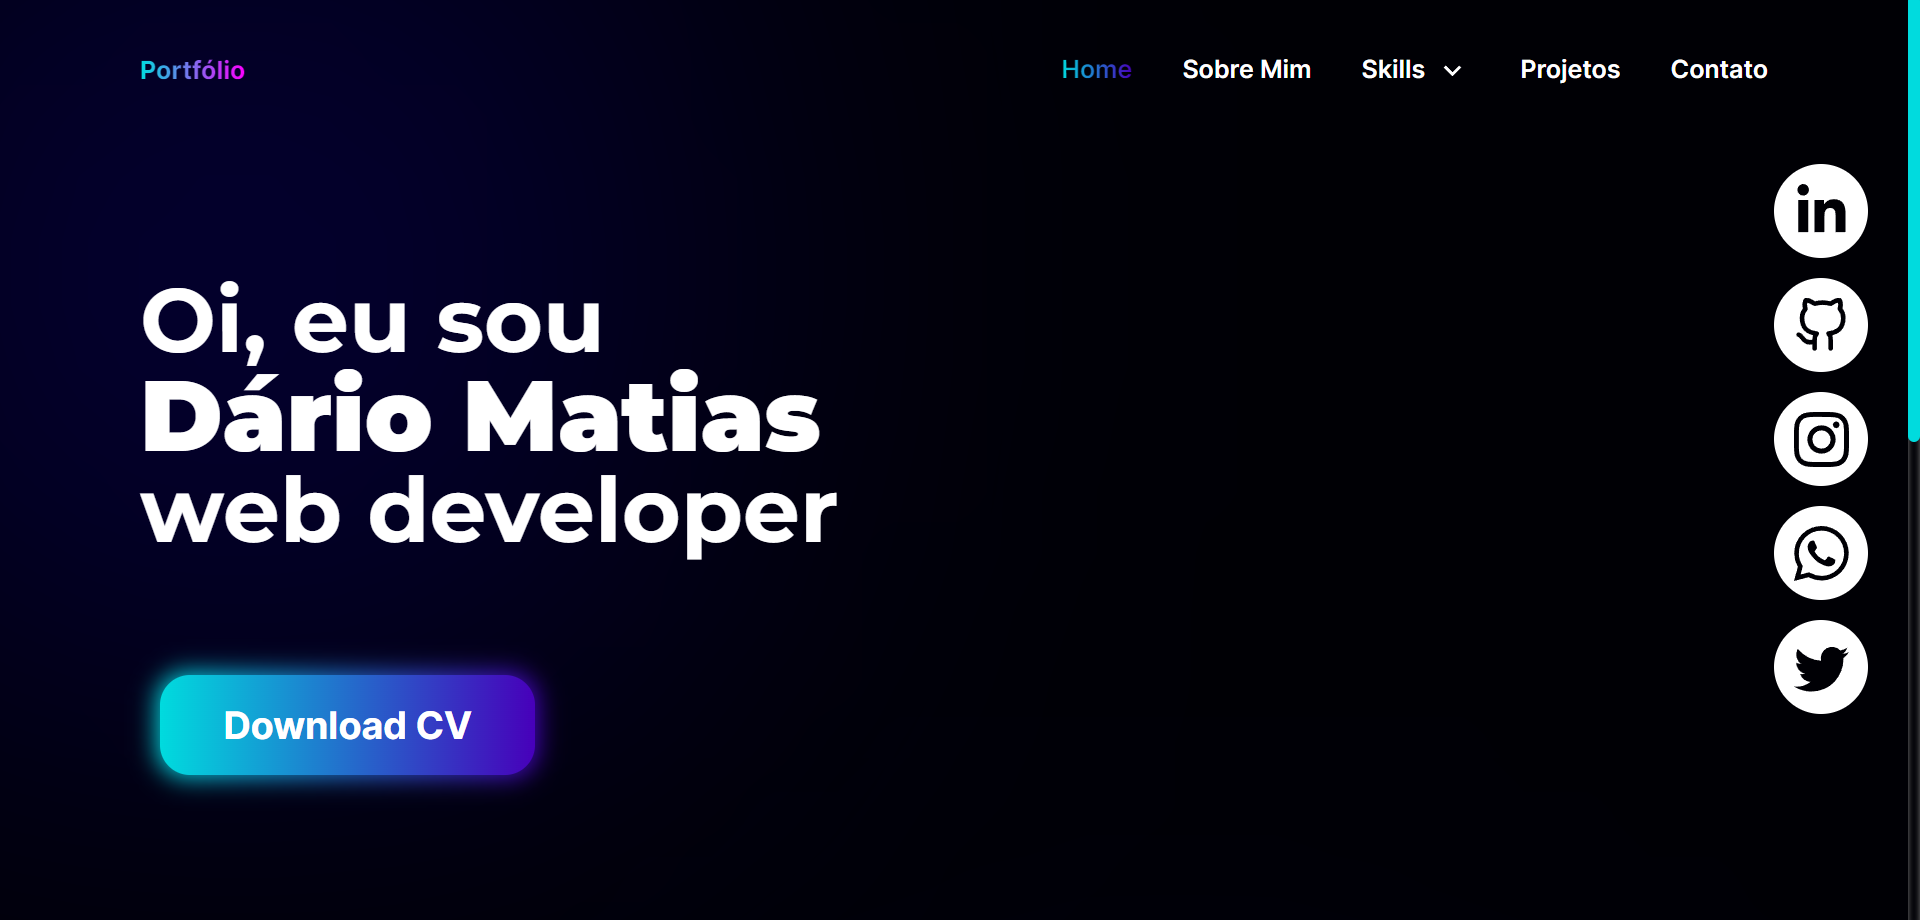
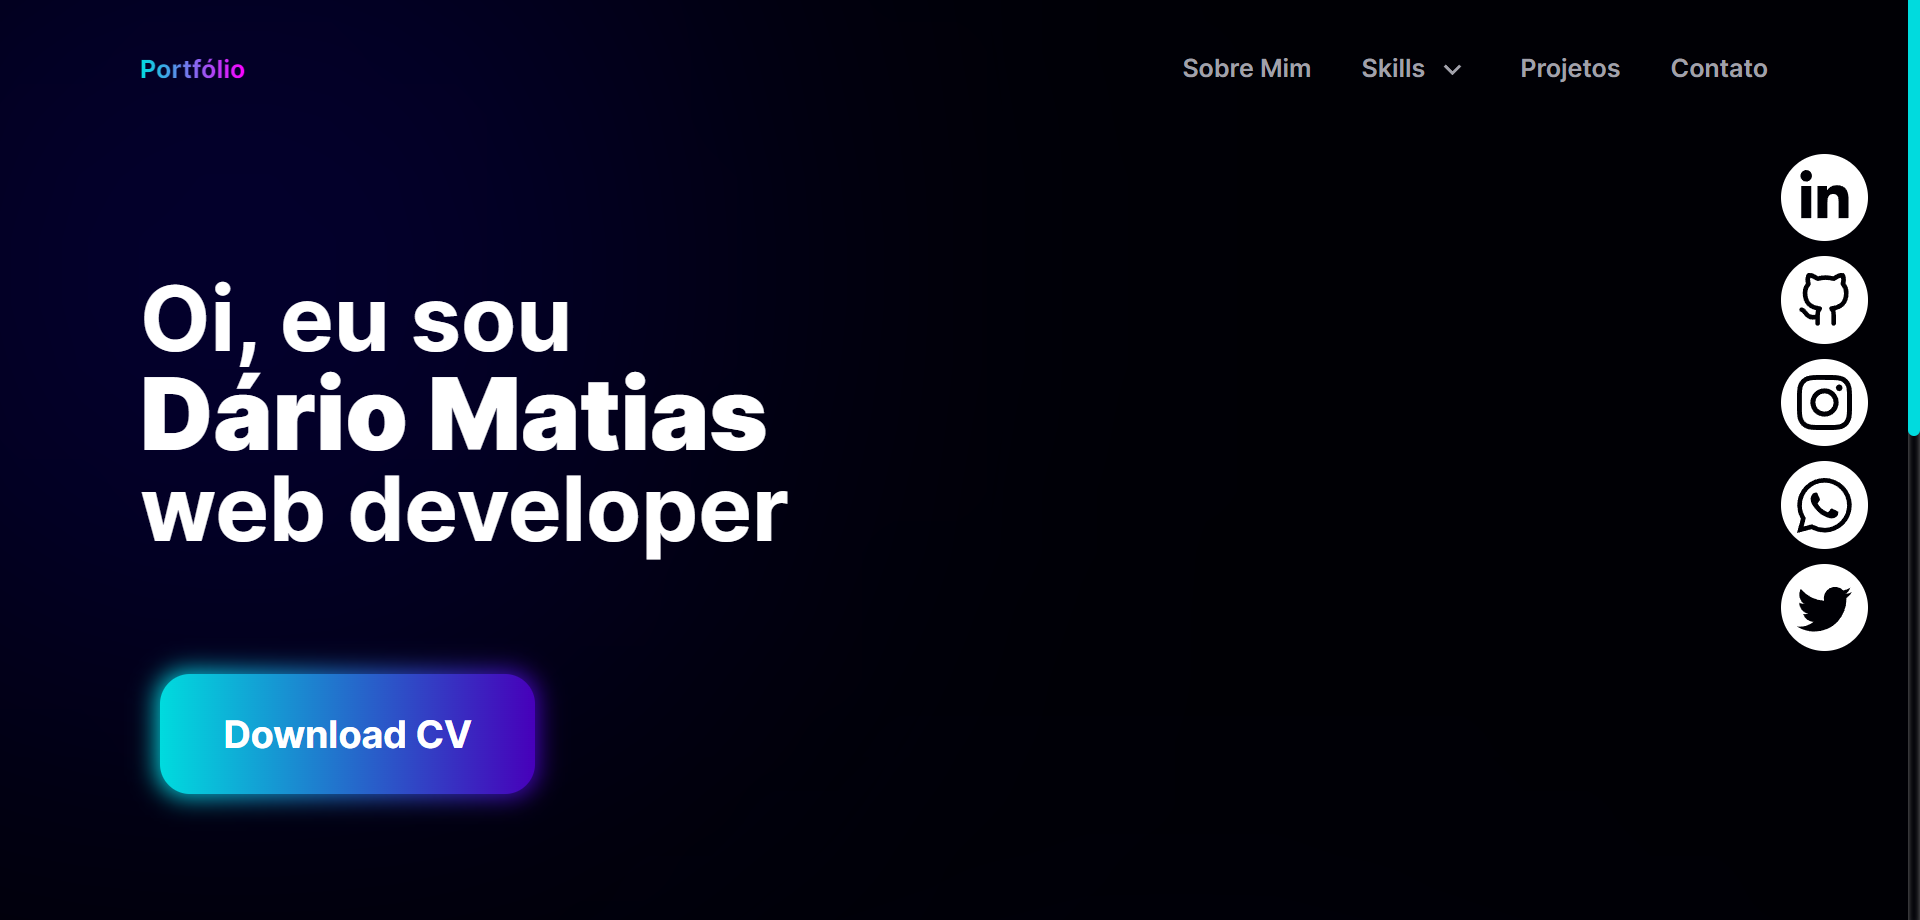
Removing API access keys, styling fixes, and updating screenshots.

diff --git a/components/SocialMedia/index.tsx b/components/SocialMedia/index.tsx
@@ -7,7 +7,7 @@ import { FaLinkedinIn } from 'react-icons/fa';
 const SocialMedia = () => {
     return (
         <div className='flex justify-center'>
-            <ul className='fixed flex lg:flex-col gap-3 lg:top-[14%] lg:right-4 bottom-0 lg:bottom-[unset] bg-background bg-opacity-80 lg:bg-transparent pb-3 p-4 border border-cyan-300 border-b-0 lg:border-0 rounded-tl-3xl rounded-tr-3xl z-10'>
+            <ul className='fixed flex lg:flex-col gap-3 lg:top-[15%] lg:right-4 bottom-0 lg:bottom-[unset] bg-background bg-opacity-80 lg:bg-transparent pb-3 p-4 border border-cyan-300 border-b-0 lg:border-0 rounded-tl-3xl rounded-tr-3xl z-10'>
                 <li>
                     <a
                         href="https://www.linkedin.com/in/d%C3%A1rio-matias-dales-gamma-587785243/"

diff --git a/components/Context/index.tsx b/components/Context/index.tsx
@@ -9,11 +9,11 @@ import { SkillProps } from "@/@types/Skill";
 type DataProps = {
     projects: ProjectProps[];
     skills: SkillProps;
-}
+};
 
 type DataContextProps = {
     data: DataProps;
-}
+};
 
 const DataContext = createContext({} as DataContextProps);
 
@@ -41,7 +41,6 @@ export const DataProvider = ({ children }: DataProviderProps) => {
                 createdBy: skill.createdBy,
             };
         });
-
         setData({
             projects: collectProjectsData,
             skills: collectSkillsData,
